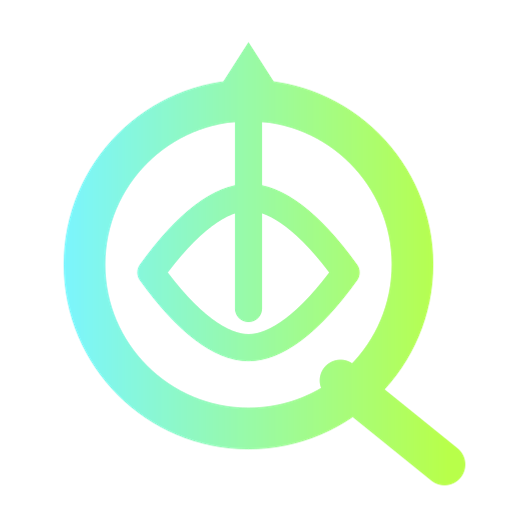
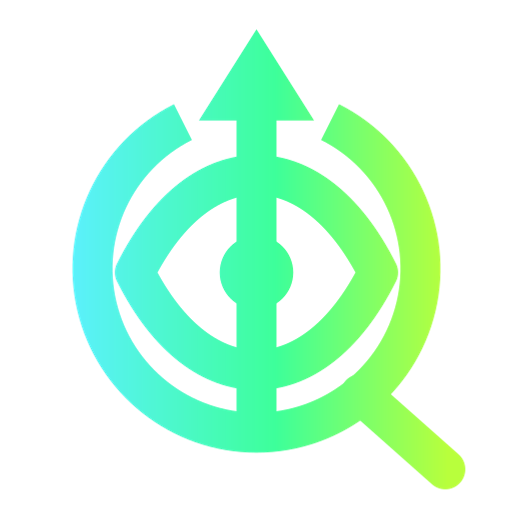
Redraw PLAYQ.GG mark to match brand geometry
Align Q gap, full-height arrow through pupil, almond eye, and
cyan→emerald→lime gradient with the provided logo artwork.

diff --git a/src/BrandLogo.tsx b/src/BrandLogo.tsx
@@ -5,12 +5,17 @@ type BrandLogoProps = {
   title?: string;
 };
 
-/** Canonical PLAYQ.GG mark — Q + eye + upward arrow, theme-colored via --logo-a/--logo-b */
+/**
+ * PLAYQ.GG brand mark (transparent):
+ * stylized Q, almond eye + pupil, arrow from bottom ring through the eye and out the top gap.
+ */
 export function BrandLogo({
   className = "brand-logo",
   title = "PLAYQ.GG",
 }: BrandLogoProps) {
-  const gradId = `playqLogoGrad-${useId().replace(/:/g, "")}`;
+  const uid = useId().replace(/:/g, "");
+  const gradId = `playqGrad-${uid}`;
+  const stroke = `url(#${gradId})`;
 
   return (
     <svg
@@ -31,40 +36,49 @@ export function BrandLogo({
           y2="32"
           gradientUnits="userSpaceOnUse"
         >
-          <stop offset="0%" stopColor="var(--logo-a, #7bf5fd)" />
-          <stop offset="100%" stopColor="var(--logo-b, #b8ff4a)" />
+          <stop offset="0%" stopColor="var(--logo-a, #5cf0ff)" />
+          <stop offset="55%" stopColor="var(--logo-mid, #3dff9a)" />
+          <stop offset="100%" stopColor="var(--logo-b, #b8ff3c)" />
         </linearGradient>
       </defs>
 
-      <circle
-        cx="31"
-        cy="33"
-        r="20.5"
-        stroke={`url(#${gradId})`}
-        strokeWidth="5.2"
-      />
+      {/* Q ring with top gap for arrowhead */}
       <path
-        d="M42.5 47.5 55.5 58"
-        stroke={`url(#${gradId})`}
-        strokeWidth="5.2"
+        d="M41.2 15.2A20.5 20.5 0 1 1 22.8 15.2"
+        stroke={stroke}
+        strokeWidth="5"
+        strokeLinecap="butt"
+      />
+
+      {/* Q tail ~45° */}
+      <path
+        d="M45 49.2 55.6 58.6"
+        stroke={stroke}
+        strokeWidth="5"
         strokeLinecap="round"
       />
+
+      {/* Eye outline — pointed almond */}
       <path
-        d="M18.8 34c4.6-6.4 8.8-9.4 12.2-9.4s7.6 3 12.2 9.4c-4.6 6.4-8.8 9.4-12.2 9.4S23.4 40.4 18.8 34Z"
-        stroke={`url(#${gradId})`}
-        strokeWidth="3.4"
+        d="M16.8 34C21 25.6 26.6 21.8 32 21.8S43 25.6 47.2 34C43 42.4 37.4 46.2 32 46.2S21 42.4 16.8 34Z"
+        stroke={stroke}
+        strokeWidth="5"
         strokeLinejoin="round"
       />
+
+      {/* Solid pupil */}
+      <circle cx="32" cy="34" r="4.6" fill={stroke} />
+
+      {/* Arrow shaft: bottom of Q → through pupil → top gap */}
       <path
-        d="M31 38.5V12.5"
-        stroke={`url(#${gradId})`}
-        strokeWidth="3.4"
-        strokeLinecap="round"
+        d="M32 54.5V12"
+        stroke={stroke}
+        strokeWidth="5"
+        strokeLinecap="butt"
       />
-      <path
-        d="M31 5.2 24.6 15.2h12.8L31 5.2Z"
-        fill={`url(#${gradId})`}
-      />
+
+      {/* Arrowhead piercing the top gap */}
+      <path d="M32 3.6 24.8 15h14.4L32 3.6Z" fill={stroke} />
     </svg>
   );
 }

diff --git a/src/styles.css b/src/styles.css
@@ -22,9 +22,10 @@
   --on-media: #f7fffc;
   --on-media-muted: #e4eeea;
   --card-shadow: 0 18px 40px rgba(0, 0, 0, 0.32);
-  /* Match source PNG: cyan → lime (transparent mark, no black box) */
-  --logo-a: #7bf5fd;
-  --logo-b: #b8ff4a;
+  /* Match brand PNG: cyan → emerald → lime */
+  --logo-a: #5cf0ff;
+  --logo-mid: #3dff9a;
+  --logo-b: #b8ff3c;
   --atmosphere-1: rgba(123, 245, 253, 0.14);
   --atmosphere-2: rgba(110, 168, 255, 0.12);
   --atmosphere-base: linear-gradient(160deg, #101018 0%, #181824 48%, #12121a 100%);
@@ -61,6 +62,7 @@
   --on-media-muted: #f0f2f8;
   --card-shadow: 0 18px 40px rgba(26, 29, 46, 0.12);
   --logo-a: #c43b32;
+  --logo-mid: #e05a32;
   --logo-b: #e07a3a;
   --atmosphere-1: rgba(196, 59, 50, 0.1);
   --atmosphere-2: rgba(224, 122, 58, 0.12);
